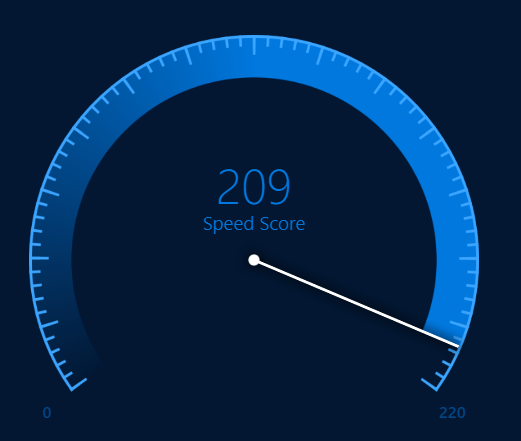
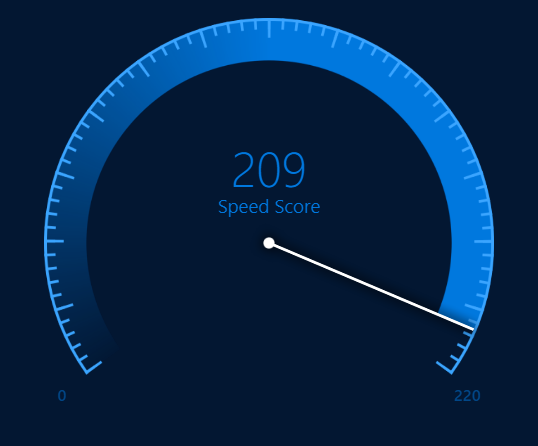
add 3 more images

diff --git a/indexStrip.html b/indexStrip.html
@@ -21,6 +21,7 @@
       var w = 1260,
           h = 500,
           bgColor = '#000',
+          dial = [ 1.00, 0.95, 0.92, 0.85 ],
           tick = {minor: 5, major: 10, mark: 'line', exact: false},
           tick1 = {minor: 5, major: 10, mark: 'circle', exact: false},
           scale = { text: {position: 0.75, dy: 0.5, color: '#fff', family: 'SegoeUI', size: 20, scale: 0.005, weight: '100'},
@@ -36,23 +37,26 @@
 
       var layout = [
         //  { x: 150, y: 250, r: 80, m: 220, ticks: 2, mark: 'line', needle:{color:'beige', circle: 2}, scale: scale  },
-          { x: 400, y: 250, r: 180, tick: tick, palette: palette, needle: needle, scale:scale, pivot: pivot, scaleDomain: scaleDomain, range: range, caption: caption },
+          { x: 400, y: 250, r: 180, dial: dial, tick: tick, palette: palette, needle: needle, scale:scale, pivot: pivot, scaleDomain: scaleDomain, range: range, caption: caption },
           //{ x: 610, y: 250, r: 40, tick: tick1, palette: palette, needle: needle, scale:scale, pivot: pivot, caption: caption },
           { x: 810, y: 250, r: 280, pivot: [ 0.10, 0.02 ], scaleDomain: [0, 220], range: [-135, 135],
             tick: {minor: 5, major: 14, mark: 'line', exact: true},
             palette: {bg: bgColor, scale:'#2EA0FF', rim: ['#00080F', '#0279DF'], pivot: '#fff', needle: '#fff'},
             needle: {type: 1, length: 0.75, width: 0.05},
-            scale: { text: {position: 0.875, dy: 0.5, color: '#37A6FE', family: 'SegoeUI', size: 10, scale: 0.005, weight: '100'},
+            dial: [ 1.00, 0.95, 0.92, 0.61*0 ],
+            scale: { text: {position: 0.875, dy: 0.5, color: '#125EA3', family: 'SegoeUI', size: 10, scale: 0.005, weight: '100'},
                     position: {start: 0.71, end: 0.76 }, rim: 0.14},
-            caption: [{text: 209, dy: -1.2, color: '#37A6FE', family: 'SegoeUI', size: 40, scale:0.005, weight: '100'},
-                    {text: 'Speed Score', dy: -0.9, color: '#37A6FE', family: "SegoeUI,'Helvetica Neue',Helvetica,Arial,sans-serif", size: 20, scale: 0.005, weight: '100'}]
+            caption: [{text: 209, dy: -1.2, color: '#125EA3', family: 'SegoeUI', size: 40, scale:0.005, weight: '100'},
+                    {text: 'Speed Score', dy: -1.4, color: '#125EA3', family: "SegoeUI,'Helvetica Neue',Helvetica,Arial,sans-serif", size: 15, scale: 0.005, weight: '100'}]
           }
       ];
+
       var charts = layout.map(function(d) {
         return OlapDialChart()
           .width(d.r * 2)
           .height(d.r * 2)
           //.margin([ -50, -50, -50, -50 ])
+          .dial(d.dial)
           .scale(d.scale)
           .scaleDomain(d.scaleDomain)
           .domain([d.scaleDomain[0], d.tick.exact ? d.tick.minor * d.tick.major : d.scaleDomain[1]])
@@ -93,6 +97,7 @@
           return OlapDialChart()
             .width(d.r * 2)
             .height(d.r * 2)
+            .dial(d.dial)
             .scale(d.scale)
             .scaleDomain(d.scaleDomain)
             .domain([d.scaleDomain[0], d.tick.exact ? d.tick.minor * d.tick.major : d.scaleDomain[1]])

diff --git a/dial.chart.js b/dial.chart.js
@@ -41,7 +41,7 @@ OlapDialChart = function() {
         drawCaption(g, r);
         createDefs(g.append('svg:defs'), 0,0,0.5,1);
         drawRim(a(d), g.append('svg:g').attr('class', 'rim'), r);
-        drawScale(a, g, r);
+        drawScale(a, g.append('svg:g').attr('class', 'scale'), r);
         drawGlare(g, r);
         drawNeedle(a, g, r);
 
@@ -274,15 +274,13 @@ OlapDialChart = function() {
   }
 
   function drawGlare(g, r) {
-    if (needle.type===0) {
-      // gradient on top panel
-      var rdial3 = r * dial[3];
-      g.append('svg:path')
-        .attr('class', 'dial-glare')
-        .attr('d', 'M ' + (-rdial3) + ',0 A' + rdial3 + ',' + rdial3 + ' 0 0,1 ' + rdial3 + ',0 A' + (rdial3 * 5) + ',' + (rdial3 * 5) + ' 0 0,0 ' + (-rdial3) + ',0')
-        .style('fill', 'url(#glareGradient)')
-        ;
-    }
+    // gradient on top panel
+    var rdial3 = r * dial[3];
+    g.append('svg:path')
+      .attr('class', 'dial-glare')
+      .attr('d', 'M ' + (-rdial3) + ',0 A' + rdial3 + ',' + rdial3 + ' 0 0,1 ' + rdial3 + ',0 A' + (rdial3 * 5) + ',' + (rdial3 * 5) + ' 0 0,0 ' + (-rdial3) + ',0')
+      .style('fill', 'url(#glareGradient)')
+      ;
   }
 
   function createDefs(defs, x1, y1, x2, y2) {
@@ -546,6 +544,12 @@ OlapDialChart = function() {
   dialchart.height = function(d) {
     if (!arguments.length) return h;
     h = d;
+    return dialchart;
+  };
+
+  dialchart.dial = function(d) {
+    if (!arguments.length) return dial;
+    dial = d;
     return dialchart;
   };
 
